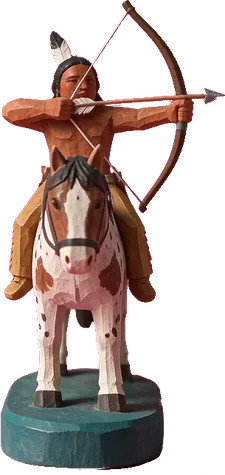
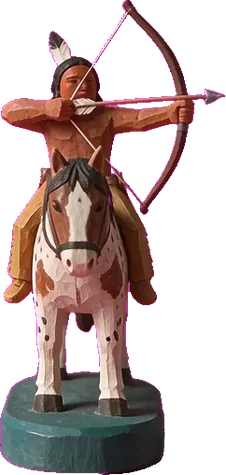
Horse archers aim forward over the horse's head in every view
Indian and Mongol horse archers were shooting sideways or backwards in some
views. Redrawn so the arrow always points where the horse is heading.

Changed region(s): [[0.0, 0.0, 1.0, 1.0]]

diff --git a/src/ui/sprites.ts b/src/ui/sprites.ts
@@ -1,6 +1,6 @@
 // Generated by the piece-art extract script: every piece picture and its size in pixels.
 // Pictures live in public/pieces/<army>/<piece>-<front|fdiag|side|bdiag|back>.webp; turned views (fdiag, side, bdiag) face left.
-export const SPRITES: Record<string, Record<string, Partial<Record<'front' | 'fdiag' | 'side' | 'bdiag' | 'back', [number, number]>>>> = {"frontier":{"king":{"front":[146,330],"fdiag":[149,329],"side":[153,329],"back":[152,330],"bdiag":[152,330]},"lightInfantry":{"front":[203,332],"fdiag":[193,332],"side":[154,346],"bdiag":[200,332],"back":[211,346]},"gunslinger":{"front":[219,339],"fdiag":[213,352],"side":[207,340],"bdiag":[158,340],"back":[159,340]},"rifleman":{"front":[196,337],"fdiag":[189,337],"side":[206,337],"back":[210,349],"bdiag":[199,337]},"cowboy":{"front":[213,447],"fdiag":[259,446],"side":[353,452],"back":[207,448],"bdiag":[246,447]},"heavyCavalry":{"front":[179,456],"fdiag":[227,451],"side":[374,447],"back":[174,457],"bdiag":[232,456]}},"novgorod":{"king":{"front":[203,319],"fdiag":[165,318],"side":[164,319],"back":[195,318],"bdiag":[178,319]},"lightInfantry":{"front":[193,339],"fdiag":[187,340],"side":[188,308],"back":[190,336],"bdiag":[161,339]},"heavyInfantry":{"front":[225,302],"fdiag":[205,302],"side":[211,303],"bdiag":[193,303],"back":[198,302]},"archer":{"front":[246,317],"fdiag":[204,317],"side":[200,316],"bdiag":[202,317],"back":[239,317]},"lightCavalry":{"front":[144,436],"fdiag":[229,424],"side":[309,377],"back":[141,433],"bdiag":[210,436]},"heavyCavalry":{"front":[220,422],"fdiag":[229,424],"side":[344,405],"back":[141,431],"bdiag":[209,422]}},"teutonic":{"king":{"front":[166,327],"side":[166,327],"back":[157,326],"fdiag":[153,327],"bdiag":[156,327]},"lightInfantry":{"front":[142,340],"side":[140,340],"back":[145,287],"fdiag":[145,340],"bdiag":[143,340]},"heavyInfantry":{"front":[167,309],"side":[168,309],"back":[175,309],"fdiag":[141,309],"bdiag":[157,309]},"archer":{"front":[219,327],"side":[219,326],"back":[213,325],"fdiag":[198,327]},"lightCavalry":{"front":[142,439],"fdiag":[233,439],"side":[298,440],"bdiag":[228,435],"back":[149,440]},"heavyCavalry":{"front":[142,442],"fdiag":[226,446],"side":[297,452],"bdiag":[222,434],"back":[160,446]}},"mongols":{"king":{"front":[165,373],"fdiag":[167,371],"side":[161,370],"bdiag":[160,371],"back":[160,371]},"lightInfantry":{"front":[150,402],"fdiag":[161,400],"side":[160,401],"bdiag":[159,399],"back":[157,399]},"archer":{"front":[175,356],"fdiag":[187,354],"side":[176,354],"bdiag":[157,354],"back":[181,363]},"lightCavalry":{"front":[192,474],"fdiag":[339,470],"side":[383,471],"back":[201,474],"bdiag":[352,474]},"heavyCavalry":{"front":[195,516],"fdiag":[332,512],"side":[447,507],"back":[203,519],"bdiag":[332,516]},"horseArcher":{"front":[261,504],"fdiag":[340,502],"side":[451,473],"bdiag":[332,476],"back":[259,505]}},"japanese":{"king":{"front":[221,466],"fdiag":[233,469],"side":[225,468],"bdiag":[204,461],"back":[211,461]},"ashigaru":{"front":[200,461],"side":[198,457],"back":[203,405],"fdiag":[191,461],"bdiag":[200,461]},"samurai":{"front":[234,487],"fdiag":[234,477],"side":[251,472],"bdiag":[215,486],"back":[244,476]},"archer":{"front":[196,428],"side":[211,474],"back":[203,426],"fdiag":[191,428]},"lightCavalry":{"front":[217,638],"fdiag":[312,635],"side":[479,539],"back":[222,637],"bdiag":[353,638]},"heavyCavalry":{"front":[220,614],"fdiag":[310,613],"side":[478,615],"bdiag":[322,614],"back":[216,619]}},"comanche":{"king":{"front":[154,354],"fdiag":[162,353],"side":[156,353],"bdiag":[156,354],"back":[164,355]},"lightInfantry":{"front":[193,361],"fdiag":[181,361],"side":[155,365],"bdiag":[167,361],"back":[176,361]},"archer":{"front":[175,359],"fdiag":[165,359],"side":[158,364],"bdiag":[163,359],"back":[159,359]},"lightCavalry":{"front":[169,495],"fdiag":[283,493],"side":[345,483],"back":[169,491],"bdiag":[252,495]},"horseArcher":{"front":[225,475],"fdiag":[277,466],"side":[357,447],"back":[214,471],"bdiag":[262,475]}}};
+export const SPRITES: Record<string, Record<string, Partial<Record<'front' | 'fdiag' | 'side' | 'bdiag' | 'back', [number, number]>>>> = {"frontier":{"king":{"front":[146,330],"fdiag":[149,329],"side":[153,329],"back":[152,330],"bdiag":[152,330]},"lightInfantry":{"front":[203,332],"fdiag":[193,332],"side":[154,346],"bdiag":[200,332],"back":[211,346]},"gunslinger":{"front":[219,339],"fdiag":[213,352],"side":[207,340],"bdiag":[158,340],"back":[159,340]},"rifleman":{"front":[196,337],"fdiag":[189,337],"side":[206,337],"back":[210,349],"bdiag":[199,337]},"cowboy":{"front":[213,447],"fdiag":[259,446],"side":[353,452],"back":[207,448],"bdiag":[246,447]},"heavyCavalry":{"front":[179,456],"fdiag":[227,451],"side":[374,447],"back":[174,457],"bdiag":[232,456]}},"novgorod":{"king":{"front":[203,319],"fdiag":[165,318],"side":[164,319],"back":[195,318],"bdiag":[178,319]},"lightInfantry":{"front":[193,339],"fdiag":[187,340],"side":[188,308],"back":[190,336],"bdiag":[161,339]},"heavyInfantry":{"front":[225,302],"fdiag":[205,302],"side":[211,303],"bdiag":[193,303],"back":[198,302]},"archer":{"front":[246,317],"fdiag":[204,317],"side":[200,316],"bdiag":[202,317],"back":[239,317]},"lightCavalry":{"front":[144,436],"fdiag":[229,424],"side":[309,377],"back":[141,433],"bdiag":[210,436]},"heavyCavalry":{"front":[220,422],"fdiag":[229,424],"side":[344,405],"back":[141,431],"bdiag":[209,422]}},"teutonic":{"king":{"front":[166,327],"side":[166,327],"back":[157,326],"fdiag":[153,327],"bdiag":[156,327]},"lightInfantry":{"front":[142,340],"side":[140,340],"back":[145,287],"fdiag":[145,340],"bdiag":[143,340]},"heavyInfantry":{"front":[167,309],"side":[168,309],"back":[175,309],"fdiag":[141,309],"bdiag":[157,309]},"archer":{"front":[219,327],"side":[219,326],"back":[213,325],"fdiag":[198,327]},"lightCavalry":{"front":[142,439],"fdiag":[233,439],"side":[298,440],"bdiag":[228,435],"back":[149,440]},"heavyCavalry":{"front":[142,442],"fdiag":[226,446],"side":[297,452],"bdiag":[222,434],"back":[160,446]}},"mongols":{"king":{"front":[165,373],"fdiag":[167,371],"side":[161,370],"bdiag":[160,371],"back":[160,371]},"lightInfantry":{"front":[150,402],"fdiag":[161,400],"side":[160,401],"bdiag":[159,399],"back":[157,399]},"archer":{"front":[175,356],"fdiag":[187,354],"side":[176,354],"bdiag":[157,354],"back":[181,363]},"lightCavalry":{"front":[192,474],"fdiag":[339,470],"side":[383,471],"back":[201,474],"bdiag":[352,474]},"heavyCavalry":{"front":[195,516],"fdiag":[332,512],"side":[447,507],"back":[203,519],"bdiag":[332,516]},"horseArcher":{"front":[261,504],"fdiag":[333,504],"side":[417,504],"bdiag":[517,504],"back":[259,505]}},"japanese":{"king":{"front":[221,466],"fdiag":[233,469],"side":[225,468],"bdiag":[204,461],"back":[211,461]},"ashigaru":{"front":[200,461],"side":[198,457],"back":[203,405],"fdiag":[191,461],"bdiag":[200,461]},"samurai":{"front":[234,487],"fdiag":[234,477],"side":[251,472],"bdiag":[215,486],"back":[244,476]},"archer":{"front":[196,428],"side":[211,474],"back":[203,426],"fdiag":[191,428]},"lightCavalry":{"front":[217,638],"fdiag":[312,635],"side":[479,539],"back":[222,637],"bdiag":[353,638]},"heavyCavalry":{"front":[220,614],"fdiag":[310,613],"side":[478,615],"bdiag":[322,614],"back":[216,619]}},"comanche":{"king":{"front":[154,354],"fdiag":[162,353],"side":[156,353],"bdiag":[156,354],"back":[164,355]},"lightInfantry":{"front":[193,361],"fdiag":[181,361],"side":[155,365],"bdiag":[167,361],"back":[176,361]},"archer":{"front":[175,359],"fdiag":[165,359],"side":[158,364],"bdiag":[163,359],"back":[159,359]},"lightCavalry":{"front":[169,495],"fdiag":[283,493],"side":[345,483],"back":[169,491],"bdiag":[252,495]},"horseArcher":{"front":[226,475],"fdiag":[319,468],"side":[393,465],"back":[204,472],"bdiag":[262,475]}}};
 
 /** Changes whenever any picture changes, so phones fetch the new ones instead of a cached copy. */
-export const ART_VERSION = '4b5f57b6';
+export const ART_VERSION = '61e59dcf';
